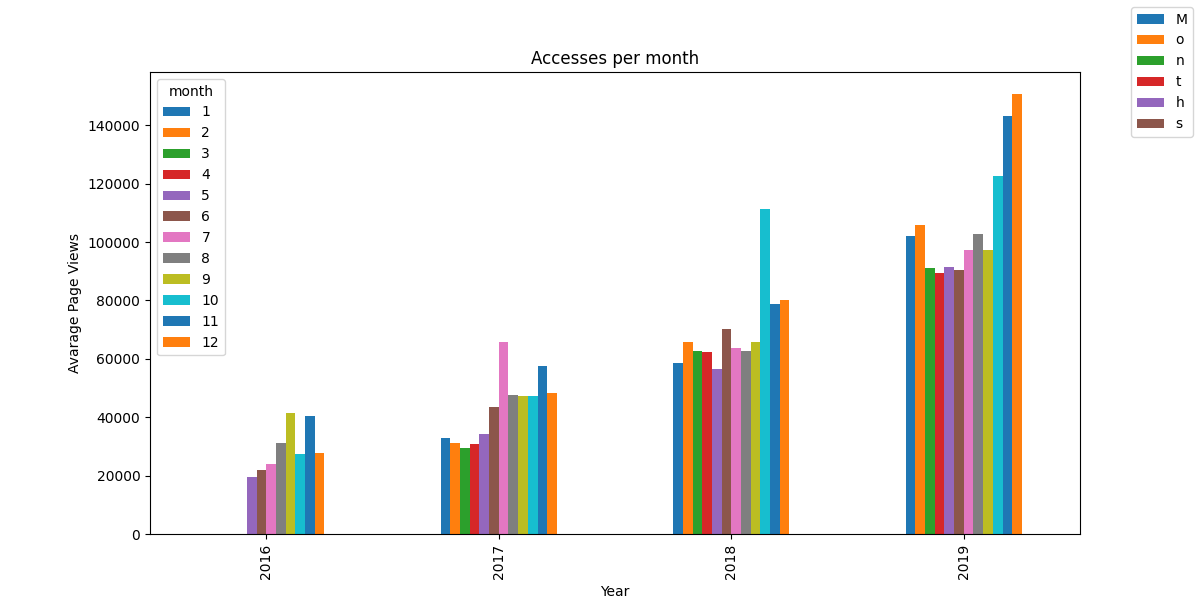
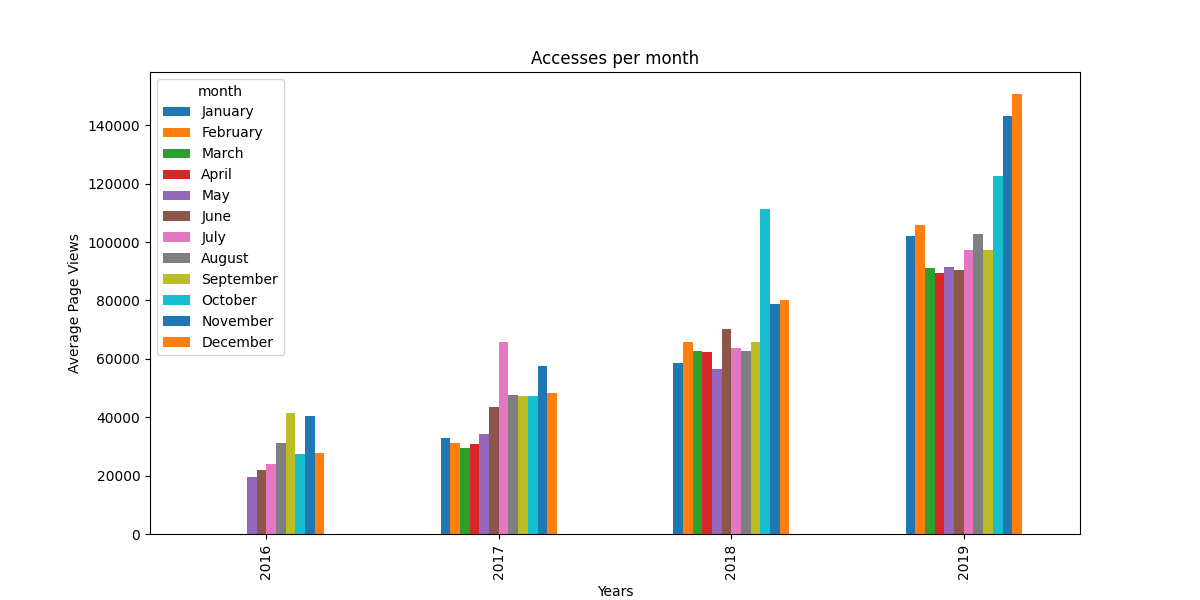
Fixing failures

diff --git a/time_series_visualizer/time_series_visualizer.py b/time_series_visualizer/time_series_visualizer.py
@@ -2,6 +2,7 @@ import matplotlib.pyplot as plt
 import pandas as pd
 import seaborn as sns
 from pandas.plotting import register_matplotlib_converters
+import time
 register_matplotlib_converters()
 
 # Import data (Make sure to parse dates. Consider setting index column to 'date'.)
@@ -27,15 +28,18 @@ def draw_bar_plot():
     # Copy and modify data for monthly bar plot
     df_bar = df.copy()
     df_bar['year'] = df_bar.index.year
-    df_bar['month'] = df_bar.index.month
-    df_bar = df_bar.groupby(['year','month'])['value'].mean().reset_index()
+    df_bar['month'] = pd.Categorical(
+        df_bar.index.strftime('%B'),
+        categories=['January', 'February', 'March', 'April', 'May', 'June', 'July', 'August', 'September'
+        , 'October','November','December']
+    )  
+    df_bar = df_bar.groupby(['month','year'])['value'].mean().reset_index()
     # Draw bar plot
+    
     pivot = df_bar.pivot(index = 'year',columns = 'month',values = 'value')
-    axes = pivot.plot(kind = 'bar',xlabel = 'Year',ylabel= 'Avarage Page Views',
+    axes = pivot.plot(kind = 'bar',xlabel = 'Years',ylabel= 'Average Page Views',
         title = 'Accesses per month',figsize=(12,6))
     fig = axes.get_figure()
-    fig.legend('Months')
-
     # Save image and return fig (don't change this part)
     fig.savefig('bar_plot.png')
     return fig
@@ -54,9 +58,11 @@ def draw_box_plot():
     f1.set_ylabel("Page Views")
     f1.set_title("Year-wise Box Plot (Trend)")
     f2 = sns.boxplot(data = df_box,x = 'month',y = 'value',palette = 'Set2',ax = axes[1],fliersize = 2)
+    f2.set_xticklabels(['Jan', 'Feb', 'Mar', 'Apr', 'May', 'Jun', 'Jul', 'Aug', 'Sep'
+        , 'Oct','Nov','Dec'])
     f2.set_ylabel("Page Views")
     f2.set_xlabel("Month")
-    f2.set_title("Month-wise Box Plot (seasonality)")
+    f2.set_title("Month-wise Box Plot (Seasonality)")
     # Save image and return fig (don't change this part)
     fig.savefig('box_plot.png')
     return fig
